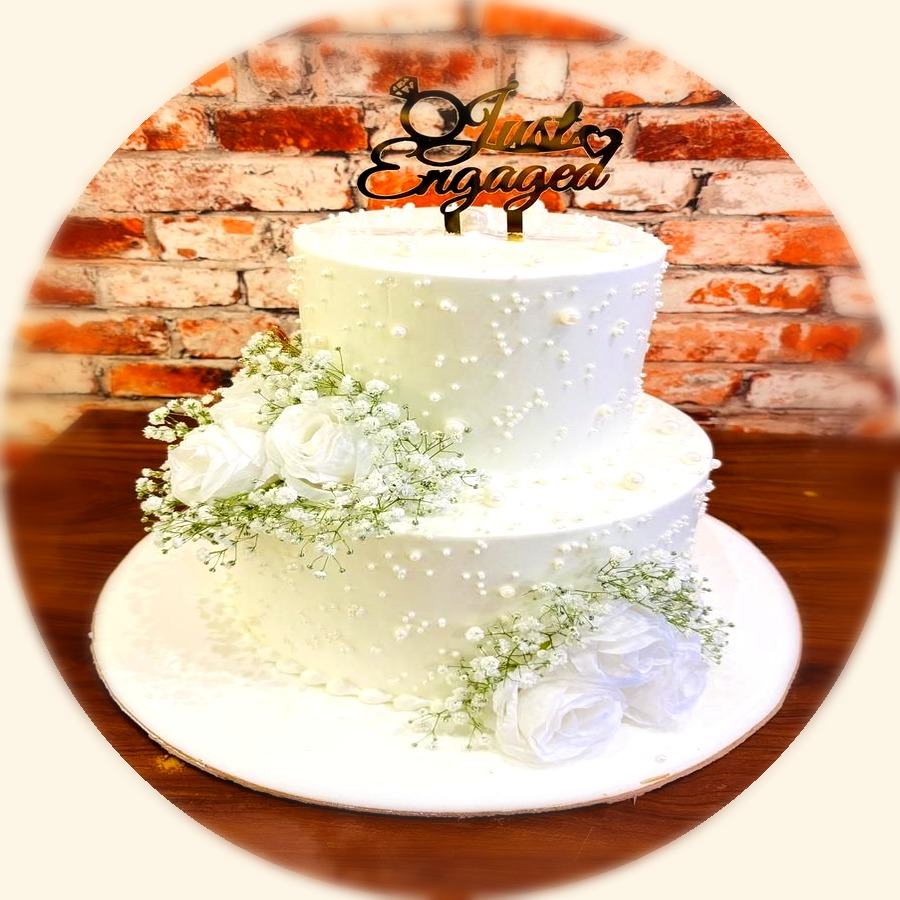
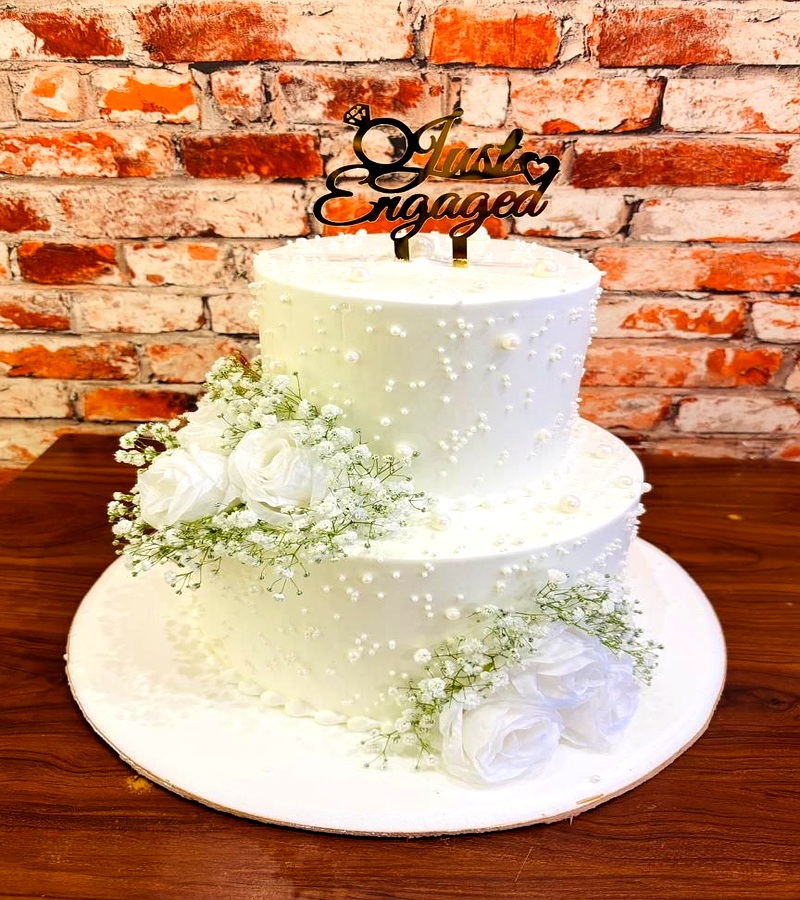
feat: premium card redesign + fix wedding cake crop

diff --git a/index.html b/index.html
@@ -196,34 +196,46 @@
     .menu { background: var(--cream); }
     .menu-grid {
       display: grid;
-      grid-template-columns: repeat(auto-fill, minmax(300px, 1fr));
-      gap: 1.5rem;
+      grid-template-columns: repeat(auto-fill, minmax(320px, 1fr));
+      gap: 2rem;
     }
     .menu-card {
-      background: white; border-radius: 1.5rem;
-      overflow: hidden; transition: transform 0.25s, box-shadow 0.25s;
-      box-shadow: 0 2px 12px rgba(59,31,14,0.06);
-      cursor: pointer;
+      background: white; border-radius: 2rem;
+      overflow: hidden; transition: transform 0.3s cubic-bezier(.22,.68,0,1.2), box-shadow 0.3s;
+      box-shadow: 0 2px 16px rgba(59,31,14,0.07);
+      cursor: pointer; display: flex; flex-direction: column;
     }
-    .menu-card:hover { transform: translateY(-6px); box-shadow: 0 16px 40px rgba(59,31,14,0.12); }
-    .menu-card-img { height: 220px; overflow: hidden; position: relative; }
-    .menu-card-img img { width: 100%; height: 100%; object-fit: cover; transition: transform 0.4s; }
-    .menu-card:hover .menu-card-img img { transform: scale(1.05); }
-    .menu-card-body { padding: 1.5rem; }
+    .menu-card:hover { transform: translateY(-10px); box-shadow: 0 24px 60px rgba(59,31,14,0.14); }
+    .menu-card-img {
+      height: 280px; overflow: hidden; position: relative;
+      background: var(--rose-light);
+    }
+    .menu-card-img img {
+      width: 100%; height: 100%; object-fit: cover;
+      transition: transform 0.5s cubic-bezier(.22,.68,0,1.2);
+    }
+    .menu-card:hover .menu-card-img img { transform: scale(1.07); }
+    .menu-card-img::after {
+      content: ''; position: absolute; inset: 0;
+      background: linear-gradient(to top, rgba(43,20,8,0.18) 0%, transparent 50%);
+      pointer-events: none;
+    }
+    .menu-card-body { padding: 1.6rem; flex: 1; display: flex; flex-direction: column; }
     .menu-card-body h3 {
       font-family: 'Playfair Display', serif;
-      font-size: 1.2rem; color: var(--brown); margin-bottom: 0.4rem;
+      font-size: 1.25rem; color: var(--brown); margin-bottom: 0.5rem; font-weight: 700;
     }
-    .menu-card-body p { font-size: 0.875rem; color: var(--text-muted); line-height: 1.6; margin-bottom: 1rem; }
-    .menu-card-footer { display: flex; align-items: center; justify-content: space-between; }
-    .price { font-weight: 700; color: var(--rose); font-size: 1rem; }
+    .menu-card-body p { font-size: 0.875rem; color: var(--text-muted); line-height: 1.65; margin-bottom: 1.2rem; flex: 1; }
+    .menu-card-footer { display: flex; align-items: center; justify-content: space-between; margin-top: auto; }
+    .price { font-weight: 700; color: var(--rose); font-size: 0.95rem; letter-spacing: 0.01em; }
     .order-chip {
-      background: var(--rose-light); color: var(--brown);
-      padding: 0.4rem 1rem; border-radius: 50px;
+      background: var(--brown); color: white;
+      padding: 0.5rem 1.2rem; border-radius: 50px;
       font-size: 0.8rem; font-weight: 600;
       text-decoration: none; transition: all 0.2s;
+      letter-spacing: 0.02em;
     }
-    .order-chip:hover { background: var(--rose); color: white; }
+    .order-chip:hover { background: var(--rose); transform: translateY(-1px); box-shadow: 0 4px 12px rgba(201,132,122,0.4); }
 
     /* SPECIALS RIBBON */
     .specials {
@@ -615,7 +627,7 @@
       </div>
       <div class="menu-card">
         <div class="menu-card-img">
-          <img src="/images/wedding-cake.jpg" alt="Wedding Cake" loading="lazy" />
+          <img src="/images/wedding-cake.jpg" style="object-position: center 10%;" alt="Wedding Cake" loading="lazy" />
         </div>
         <div class="menu-card-body">
           <h3>Wedding & Occasion Cakes</h3>
@@ -920,3 +932,5 @@ Sent from zamzambakes.vercel.app`;
 </script>
 </body>
 </html>
+
+
